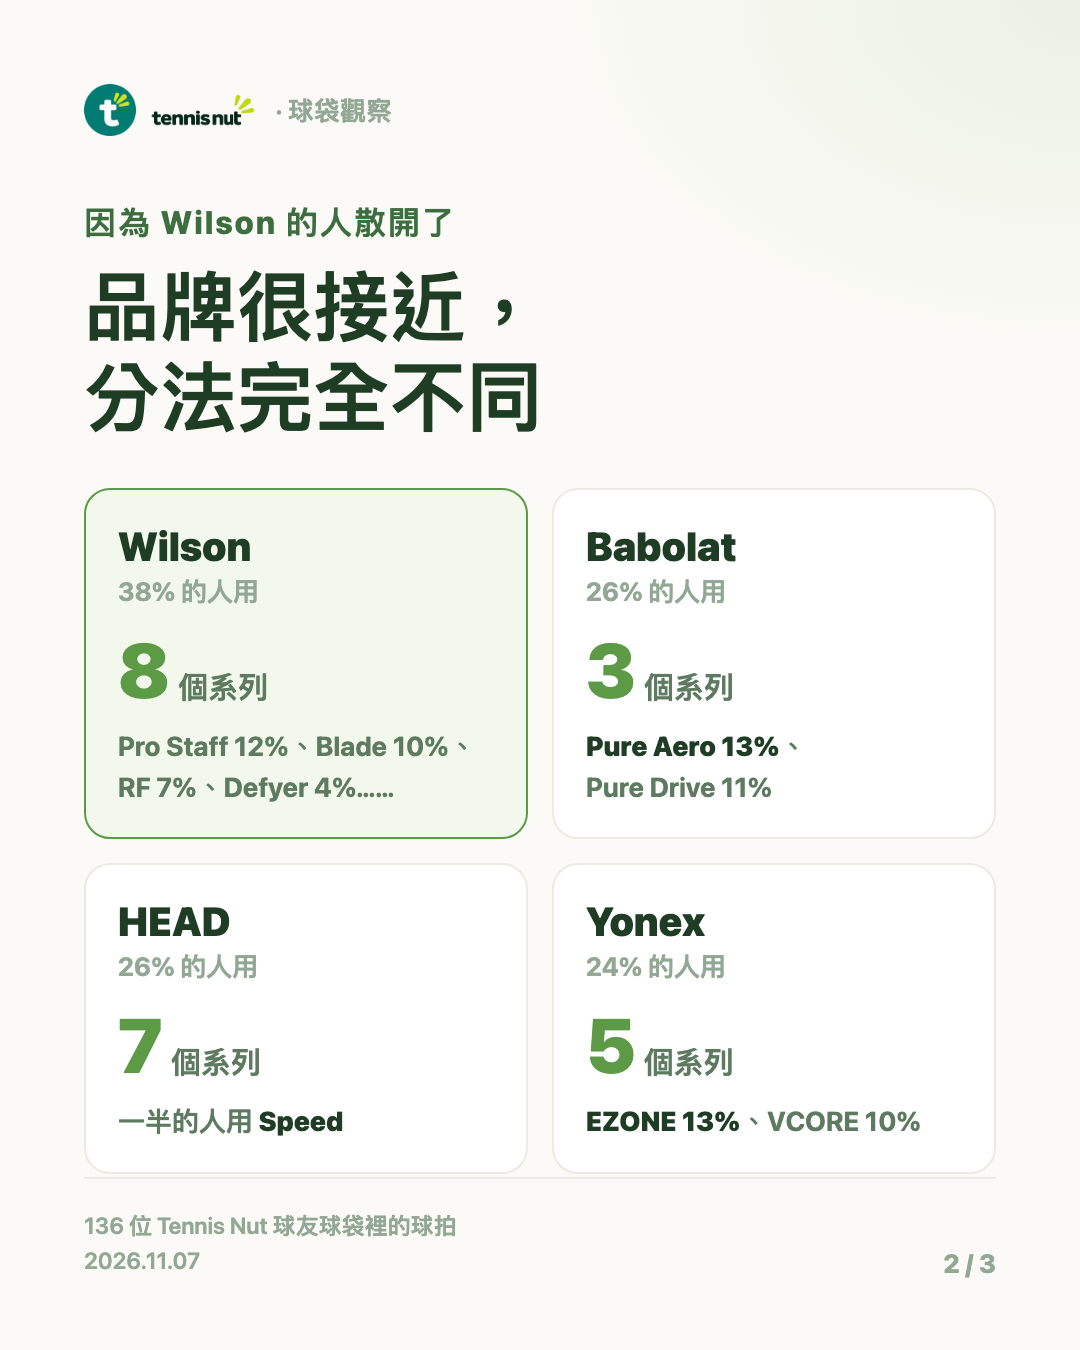
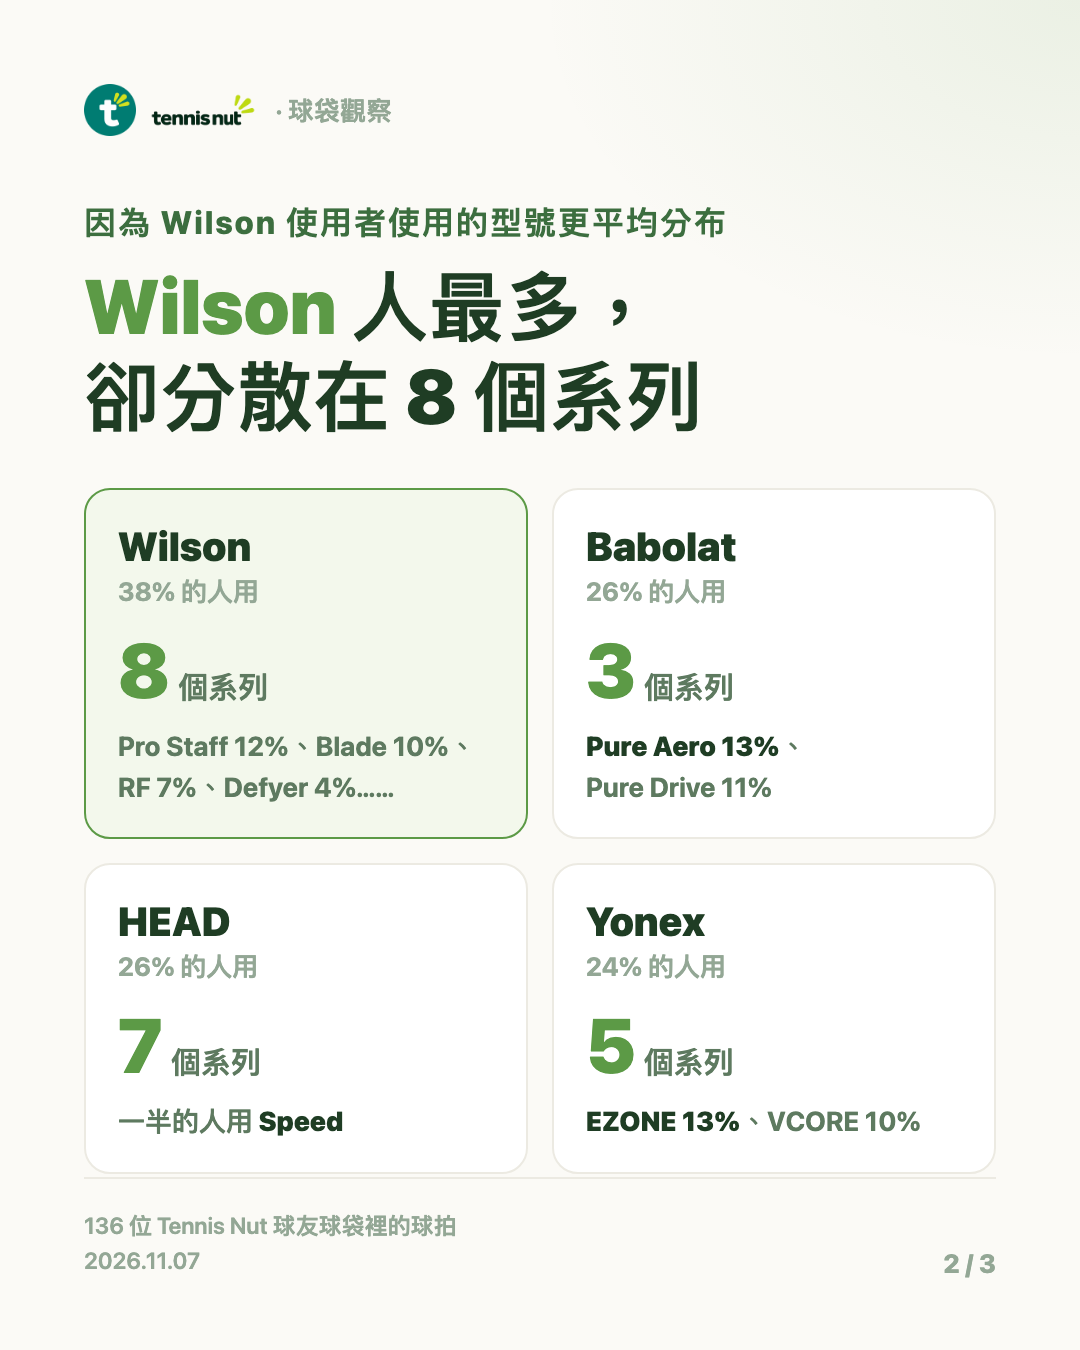
insights: 第 2 張圖卡標題改寫得更直白
Claude-Session: https://claude.ai/code/session_01FhLZvZoNfw4K9PSLRPSWad

Changed region(s): [[0.0611, 0.1556, 0.6722, 0.3422]]

diff --git a/insights/gear-2026-11-cards.html b/insights/gear-2026-11-cards.html
@@ -87,8 +87,8 @@
   <!-- 2：為什麼 -->
   <section class="card" data-n="2">
     <div class="brand"><img class="ic" src="/app-icon.png" alt="" /><img class="wm" src="/wordmark.png" alt="Tennis Nut" /><span>· 球袋觀察</span></div>
-    <div class="kicker">因為 Wilson 的人散開了</div>
-    <h1>品牌很接近，<br />分法完全不同</h1>
+    <div class="kicker">因為 Wilson 使用者使用的型號更平均分布</div>
+    <h1><em>Wilson</em> 人最多，<br />卻分散在 8 個系列</h1>
     <div class="grid4">
       <div class="p hl"><div class="b">Wilson</div><div class="n">38% 的人用</div><div class="big">8<small>個系列</small></div><div class="top">Pro Staff 12%、Blade 10%、<br />RF 7%、Defyer 4%……</div></div>
       <div class="p"><div class="b">Babolat</div><div class="n">26% 的人用</div><div class="big">3<small>個系列</small></div><div class="top"><b>Pure Aero 13%</b>、<br />Pure Drive 11%</div></div>
